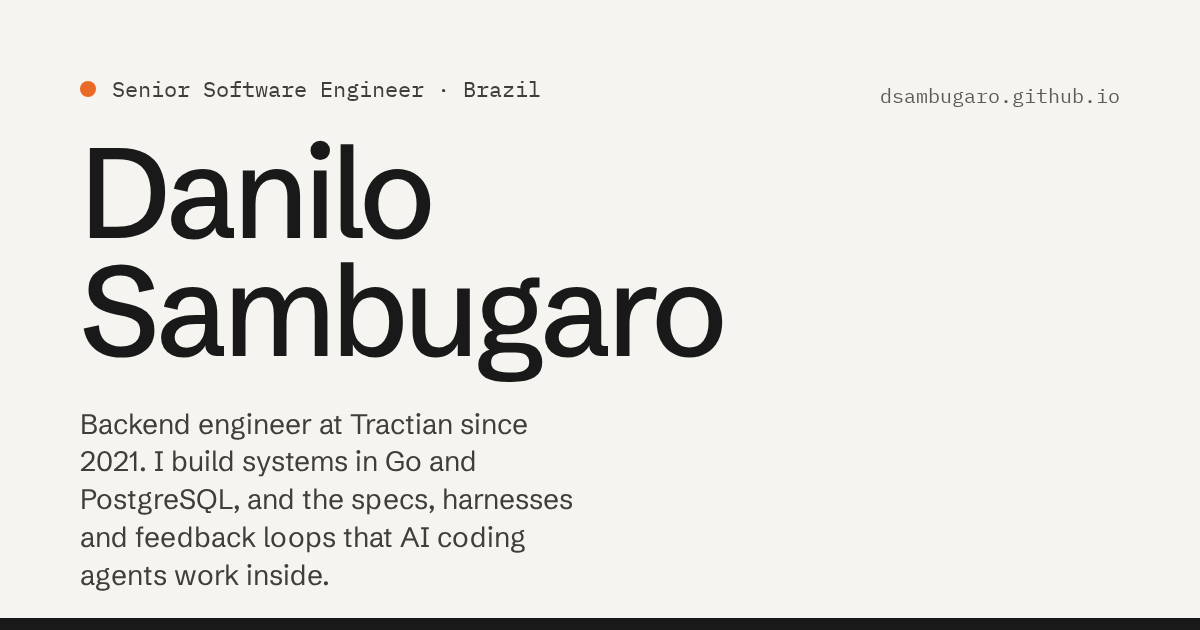
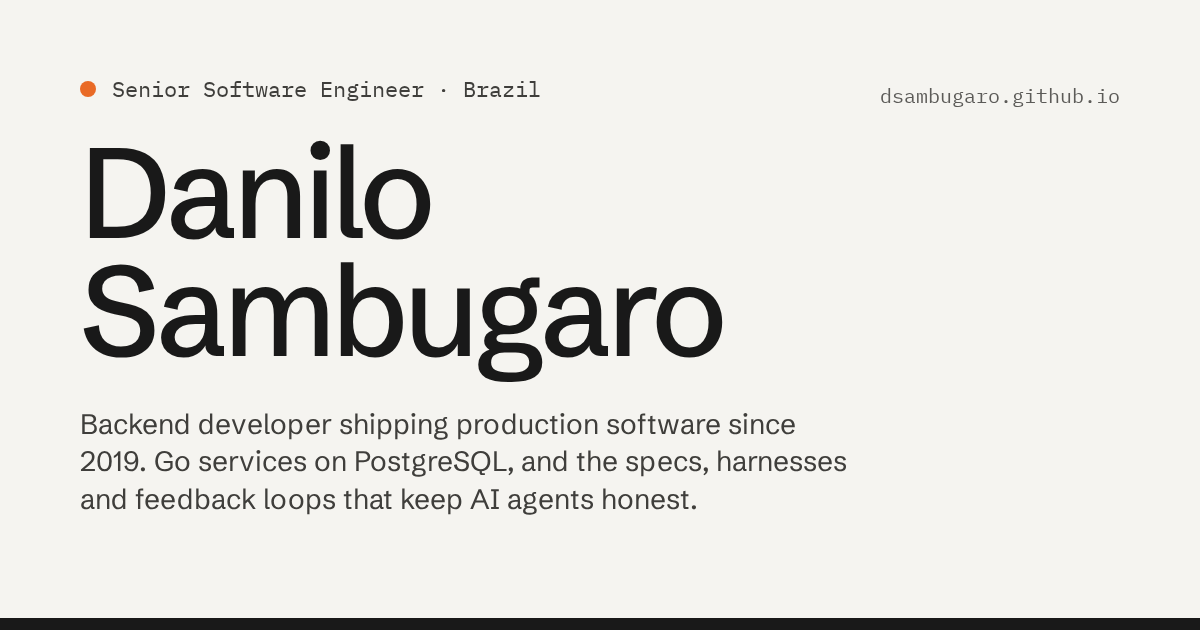
feat: rewrite intro as backend developer, drop employer mention

Changed region(s): [[0.0617, 0.6635, 0.7092, 0.8143], [0.0617, 0.8444, 0.4317, 0.8746], [0.0617, 0.9048, 0.2775, 0.9349]]

diff --git a/src/i18n/content.ts b/src/i18n/content.ts
@@ -30,14 +30,14 @@ const en: Copy = {
   meta: {
     title: 'Danilo Sambugaro, Senior Software Engineer',
     description:
-      'Senior Software Engineer at Tractian. Backend systems in Go and PostgreSQL, and the specs, harnesses and feedback loops that AI coding agents work inside.',
+      'Backend developer shipping production software since 2019. Go services on PostgreSQL, and the specs, harnesses and feedback loops that keep AI agents honest.',
   },
   langSwitch: { label: 'Ler em português', short: 'PT' },
   theme: { toDark: 'Switch to dark theme', toLight: 'Switch to light theme' },
   role: 'Senior Software Engineer',
   country: 'Brazil',
   intro:
-    'Backend engineer at Tractian since 2021. I build systems in Go and PostgreSQL, and the specs, harnesses and feedback loops that AI coding agents work inside.',
+    'I’m a backend developer shipping production software since 2019. Most days that means Go services on PostgreSQL, and the specs, harnesses and feedback loops that keep AI agents honest while they help me build them.',
   linksLabel: 'Find me online',
   newTab: 'opens in a new tab',
 };
@@ -48,14 +48,14 @@ const pt: Copy = {
   meta: {
     title: 'Danilo Sambugaro, Senior Software Engineer',
     description:
-      'Senior Software Engineer na Tractian. Sistemas de backend em Go e PostgreSQL, e as specs, harnesses e loops de feedback em que agentes de IA trabalham.',
+      'Desenvolvedor backend com software em produção desde 2019. Serviços em Go sobre PostgreSQL, e as specs, harnesses e loops de feedback que mantêm agentes de IA no trilho.',
   },
   langSwitch: { label: 'Read in English', short: 'EN' },
   theme: { toDark: 'Mudar para o tema escuro', toLight: 'Mudar para o tema claro' },
   role: 'Senior Software Engineer',
   country: 'Brasil',
   intro:
-    'Engenheiro de backend na Tractian desde 2021. Construo sistemas em Go e PostgreSQL, e as specs, harnesses e loops de feedback em que agentes de IA trabalham.',
+    'Sou desenvolvedor backend e coloco software em produção desde 2019. No dia a dia, isso quer dizer serviços em Go sobre PostgreSQL, e as specs, harnesses e loops de feedback que mantêm agentes de IA no trilho enquanto me ajudam a construí-los.',
   linksLabel: 'Onde me encontrar',
   newTab: 'abre em nova aba',
 };
